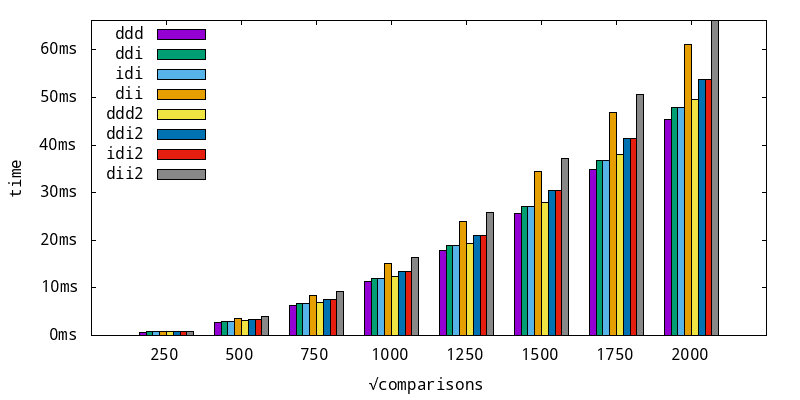
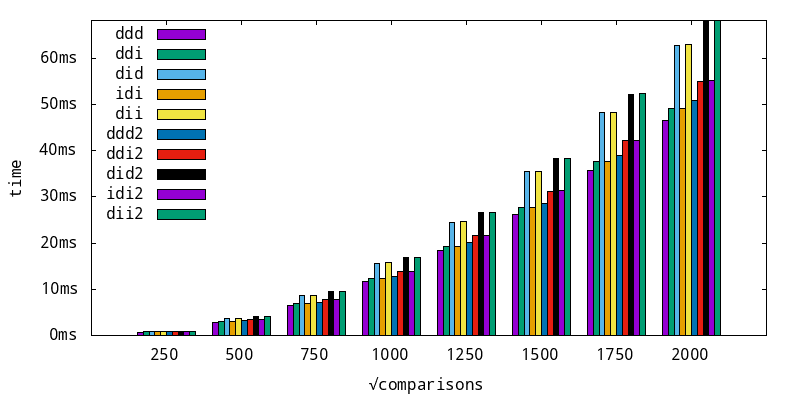
Add DID methods

diff --git a/test/HammingMatchTest.cpp b/test/HammingMatchTest.cpp
@@ -23,6 +23,10 @@ void referenceDDI(uint32_t *matches, uint8_t *haystack, uint8_t *needle,
     size_t *indices, size_t num_haystack, size_t num_needle,
     size_t haystack_base);
 
+void referenceDID(uint32_t *matches, uint8_t *haystack, uint8_t *needle,
+    size_t *indices, size_t num_haystack, size_t num_needle,
+    size_t haystack_base);
+
 void referenceIDI(uint32_t *matches, uint8_t *haystack, uint8_t *needle,
     size_t *indices, size_t num_haystack, size_t num_needle,
     size_t haystack_base);
@@ -36,6 +40,10 @@ void referenceDDD2(uint32_t *matches, uint8_t *haystack,
     size_t num_needle, size_t haystack_base);
 
 void referenceDDI2(uint32_t *matches, uint8_t *haystack, uint8_t *needle,
+    size_t *indices, size_t num_haystack, size_t num_needle,
+    size_t haystack_base);
+
+void referenceDID2(uint32_t *matches, uint8_t *haystack, uint8_t *needle,
     size_t *indices, size_t num_haystack, size_t num_needle,
     size_t haystack_base);
 
@@ -112,6 +120,50 @@ TEST_P(HammingMatchTest, randomMatch256ddi) {
       num_descriptors, num_queries, haystack_base);
 
   referenceDDI(matches_reference, haystack, needle, indices,
+      num_descriptors, num_queries, haystack_base);
+
+  for (size_t i = 0; i < num_queries; i += 1) {
+    EXPECT_EQ(matches[i], matches_reference[i]);
+  }
+
+  // check for overrun
+  EXPECT_EQ(matches[num_queries], 0xdeadbeef);
+
+  delete[] haystack;
+  delete[] needle;
+  delete[] indices;
+  delete[] matches;
+  delete[] matches_reference;
+}
+
+TEST_P(HammingMatchTest, randomMatch256did) {
+  size_t num_descriptors = ::std::get<0>(GetParam());
+  size_t num_queries = ::std::get<1>(GetParam());
+
+  // use a > 16 bit number to test 24 bit indices
+  size_t haystack_base = 0x12345;
+
+  uint8_t *haystack = new uint8_t[num_descriptors*32];
+  uint8_t *needle = new uint8_t[num_queries*32];
+  size_t *indices = new size_t[num_descriptors];
+  uint32_t *matches = new size_t[num_queries+1];
+  uint32_t *matches_reference = new size_t[num_queries];
+
+  matches[num_queries] = 0xdeadbeef;
+
+  std::mt19937 rng;
+  test_util::fill_random(32, 32, num_descriptors, haystack, rng);
+  test_util::fill_random(32, 32, num_queries, needle, rng);
+
+  for (size_t i = 0; i < num_descriptors; i += 1) {
+    indices[i] = i;
+  }
+  std::shuffle(indices, indices+num_descriptors, rng);
+
+  pimatch::hammingMatch256did(matches, haystack, needle, indices,
+      num_descriptors, num_queries, haystack_base);
+
+  referenceDID(matches_reference, haystack, needle, indices,
       num_descriptors, num_queries, haystack_base);
 
   for (size_t i = 0; i < num_queries; i += 1) {
@@ -436,6 +488,50 @@ static uint32_t distance(uint8_t *a, uint8_t *b) {
   return distance;
 }
 
+TEST_P(HammingMatchTest, randomMatch256did2) {
+  size_t num_descriptors = ::std::get<0>(GetParam());
+  size_t num_queries = ::std::get<1>(GetParam());
+
+  // use a > 16 bit number to test 24 bit indices
+  size_t haystack_base = 0x12345;
+
+  uint8_t *haystack = new uint8_t[num_descriptors*32];
+  uint8_t *needle = new uint8_t[num_queries*32];
+  size_t *indices = new size_t[num_descriptors];
+  uint32_t *matches = new size_t[num_queries*2+1];
+  uint32_t *matches_reference = new size_t[num_queries*2];
+
+  matches[num_queries*2] = 0xdeadbeef;
+
+  std::mt19937 rng;
+  test_util::fill_random(32, 32, num_descriptors, haystack, rng);
+  test_util::fill_random(32, 32, num_queries, needle, rng);
+
+  for (size_t i = 0; i < num_descriptors; i += 1) {
+    indices[i] = i;
+  }
+  std::shuffle(indices, indices+num_descriptors, rng);
+
+  pimatch::hammingMatch256did2(matches, haystack, needle, indices,
+      num_descriptors, num_queries, haystack_base);
+
+  referenceDID2(matches_reference, haystack, needle, indices,
+      num_descriptors, num_queries, haystack_base);
+
+  for (size_t i = 0; i < num_queries*2; i += 1) {
+    EXPECT_EQ(matches[i], matches_reference[i]);
+  }
+
+  // check for overrun
+  EXPECT_EQ(matches[num_queries*2], 0xdeadbeef);
+
+  delete[] haystack;
+  delete[] needle;
+  delete[] indices;
+  delete[] matches;
+  delete[] matches_reference;
+}
+
 void referenceDDD(uint32_t *matches, uint8_t *haystack, uint8_t *needle,
     size_t num_haystack, size_t num_indices, size_t haystack_base) {
 
@@ -464,6 +560,26 @@ void referenceDDI(uint32_t *matches, uint8_t *haystack, uint8_t *needle,
     for (size_t j = 0; j < num_haystack; j += 1) {
       uint32_t score = distance(&haystack[j*32], &needle[index*32]);
       score = (score << 24) | (haystack_base + j);
+
+      if (score < best) {
+        best = score;
+      }
+    }
+    matches[i] = best;
+  }
+}
+
+void referenceDID(uint32_t *matches, uint8_t *haystack, uint8_t *needle,
+    size_t *indices, size_t num_haystack, size_t num_indices,
+    size_t haystack_base) {
+
+  for (size_t i = 0; i < num_indices; i += 1) {
+    uint32_t best = 0xffffffff;
+    for (size_t j = 0; j < num_haystack; j += 1) {
+      size_t index = indices[j];
+
+      uint32_t score = distance(&haystack[index*32], &needle[i*32]);
+      score = (score << 24) | (haystack_base + index);
 
       if (score < best) {
         best = score;
@@ -613,5 +729,31 @@ void referenceDII2(uint32_t *matches, uint8_t *haystack, uint8_t *needle,
     matches[2*i+1] = best2;
   }
 }
+
+void referenceDID2(uint32_t *matches, uint8_t *haystack, uint8_t *needle,
+    size_t *indices, size_t num_haystack, size_t num_indices,
+    size_t haystack_base) {
+
+  for (size_t i = 0; i < num_indices; i += 1) {
+    uint32_t best = 0xffffffff;
+    uint32_t best2 = 0xffffffff;
+    for (size_t j = 0; j < num_haystack; j += 1) {
+      size_t index = indices[j];
+
+      uint32_t score = distance(&haystack[index*32], &needle[i*32]);
+      score = (score << 24) | (haystack_base + index);
+
+      if (score < best) {
+        best2 = best;
+        best = score;
+      } else if (score < best2) {
+        best2 = score;
+      }
+    }
+    matches[2*i] = best;
+    matches[2*i+1] = best2;
+  }
+}
+
 
 } /* namespace */

diff --git a/src/HammingMatch.cpp b/src/HammingMatch.cpp
@@ -11,6 +11,7 @@ namespace pimatch {
 namespace match_params {
 struct DDD;
 struct DDI;
+struct DID;
 struct IDI;
 struct DII;
 
@@ -40,6 +41,15 @@ void hammingMatch256ddi(uint32_t *matches, uint8_t *haystack, uint8_t *needle,
 
   hammingMatch256Base<DDI, best1>(
       matches, haystack, needle, nullptr, needle_indices,
+      num_haystack, num_needle, haystack_base);
+}
+
+void hammingMatch256did(uint32_t *matches, uint8_t *haystack, uint8_t *needle,
+    size_t *haystack_indices, size_t num_haystack, size_t num_needle,
+    size_t haystack_base) {
+
+  hammingMatch256Base<DID, best1>(
+      matches, haystack, needle, haystack_indices, nullptr,
       num_haystack, num_needle, haystack_base);
 }
 
@@ -93,6 +103,15 @@ void hammingMatch256dii2(uint32_t *matches, uint8_t *haystack, uint8_t *needle,
 
   hammingMatch256Base<DII, best2>(
       matches, haystack, needle, haystack_indices, needle_indices,
+      num_haystack, num_needle, haystack_base);
+}
+
+void hammingMatch256did2(uint32_t *matches, uint8_t *haystack, uint8_t *needle,
+    size_t *haystack_indices, size_t num_haystack, size_t num_needle,
+    size_t haystack_base) {
+
+  hammingMatch256Base<DID, best2>(
+      matches, haystack, needle, haystack_indices, nullptr,
       num_haystack, num_needle, haystack_base);
 }
 
@@ -282,6 +301,7 @@ struct DDI : public DenseMatch, public DenseHaystack, public IndexNeedle {
     indices += 4;
   }
 };
+struct DID : public DenseMatch, public IndexHaystack, public DenseNeedle {};
 struct IDI : public IndexMatch, public DenseHaystack, public IndexNeedle {};
 struct DII : public DenseMatch, public IndexHaystack, public IndexNeedle {
   template <bool n_bests>

diff --git a/demo/Benchmark.cpp b/demo/Benchmark.cpp
@@ -36,7 +36,7 @@ int main(int argc, char **argv) {
 
   std::clock_t begin, end;
 
-  std::cout << "N ddd ddi idi dii ddd2 ddi2 idi2 dii2" << std::endl;
+  std::cout << "N ddd ddi did idi dii ddd2 ddi2 did2 idi2 dii2" << std::endl;
   for (size_t i = 250; i <= max_size; i += 250) {
     std::cout << i << " ";
 
@@ -51,6 +51,14 @@ int main(int argc, char **argv) {
     for (int j = 0; j < N; j += 1) {
       pimatch::hammingMatch256ddi(matches, haystack, needle,
           needle_indices, i, i);
+    }
+    end = std::clock();
+    print_delta(begin, end, " ");
+
+    begin = std::clock();
+    for (int j = 0; j < N; j += 1) {
+      pimatch::hammingMatch256did(matches, haystack, needle,
+          haystack_indices, i, i);
     }
     end = std::clock();
     print_delta(begin, end, " ");
@@ -82,6 +90,14 @@ int main(int argc, char **argv) {
     for (int j = 0; j < N; j += 1) {
       pimatch::hammingMatch256ddi2(matches, haystack, needle,
           needle_indices, i, i);
+    }
+    end = std::clock();
+    print_delta(begin, end, " ");
+
+    begin = std::clock();
+    for (int j = 0; j < N; j += 1) {
+      pimatch::hammingMatch256did2(matches, haystack, needle,
+          haystack_indices, i, i);
     }
     end = std::clock();
     print_delta(begin, end, " ");

diff --git a/include/HammingMatch.h b/include/HammingMatch.h
@@ -42,6 +42,13 @@ void hammingMatch256ddi(uint32_t *matches, uint8_t *haystack, uint8_t *needle,
     size_t haystack_base = 0);
 
 /// Brute-force match 256 bit binary descriptors.
+/// Haystack is indexed.
+///
+void hammingMatch256did(uint32_t *matches, uint8_t *haystack, uint8_t *needle,
+    size_t *haystack_indices, size_t num_haystack, size_t num_needle,
+    size_t haystack_base = 0);
+
+/// Brute-force match 256 bit binary descriptors.
 /// Both matches and needle are indexed, e.g. if indices[i] = 10,
 ///    matches[10] = best_match(needle[10])
 ///
@@ -70,6 +77,13 @@ void hammingMatch256ddd2(uint32_t *matches, uint8_t *haystack, uint8_t *needle,
 ///
 void hammingMatch256ddi2(uint32_t *matches, uint8_t *haystack, uint8_t *needle,
     size_t *needle_indices, size_t num_haystack, size_t num_needle,
+    size_t haystack_base = 0);
+
+/// Brute-force match 256 bit binary descriptors. Return two best matches.
+/// Haystack is indexed.
+///
+void hammingMatch256did2(uint32_t *matches, uint8_t *haystack, uint8_t *needle,
+    size_t *haystack_indices, size_t num_haystack, size_t num_needle,
     size_t haystack_base = 0);
 
 /// Brute-force match 256 bit binary descriptors. Return two best matches.

diff --git a/README.md b/README.md
@@ -11,7 +11,7 @@ GPLv3
 ## Building
 
 A copy of DBoW used by ORB_SLAM is included in the `demo/` directory. In order
-to build the `HammingTreeDemo`, DBoW must be build first.
+to build the `HammingTreeDemo`, DBoW must be built first.
 
 The default version of g++ installed on the raspberry pi may crash when compiling
 DBoW. In this case, use g++-6 or later.
@@ -40,10 +40,12 @@ The currently available methods are
 ```
  hammingMatch256ddd
  hammingMatch256ddi
+ hammingMatch256did
  hammingMatch256idi
  hammingMatch256dii
  hammingMatch256ddd2
  hammingMatch256ddi2
+ hammingMatch256did2
  hammingMatch256idi2
  hammingMatch256dii2
 ```
